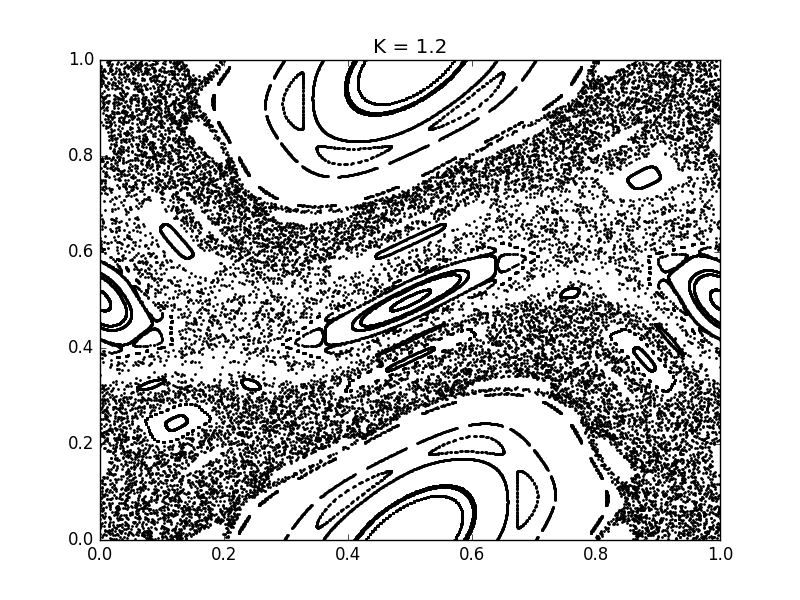
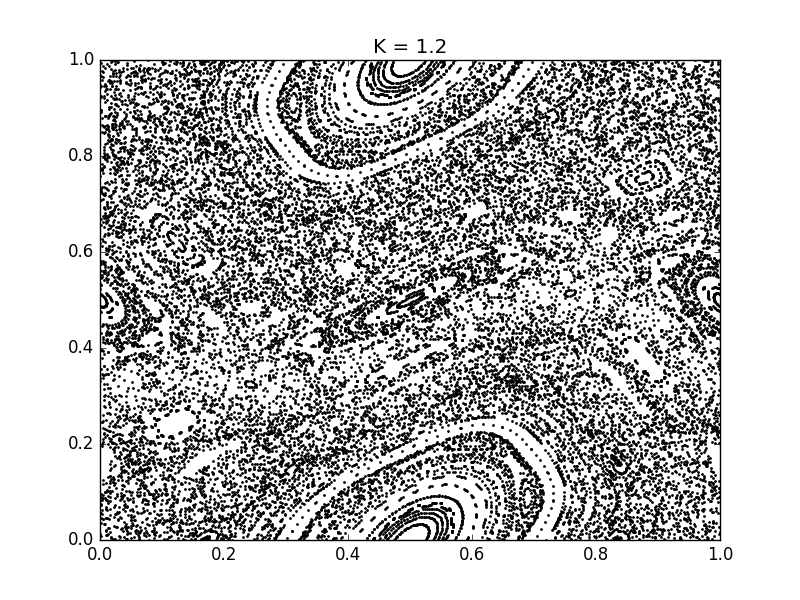
everything working, still need to tweak rounding errors

diff --git a/map_info.py b/map_info.py
@@ -16,10 +16,11 @@ import numpy as np
 #======================================================================================#
 
 # K = a constant which alters the dynamics of the system
-e = 0.1
+e = 0.01
 K = 1.2
 Scale = 1
 
+# Assuming points in R^2
 def std_map_next(pt):
     y = (pt[1] + K/(2*np.pi)*np.sin(2*np.pi*pt[0])) % Scale
     x = (pt[0] + y) % Scale
@@ -27,7 +28,6 @@ def std_map_next(pt):
 
 def std_map_jacobian(pt):
     return (np.matrix([[1, K*np.cos(pt[1])], [1, 1 + K*np.cos(pt[1])]]))
-
 
 #=======================================================================================#
 #                               The Two-One-One Map                                     #

diff --git a/lib_with_map.py b/lib_with_map.py
@@ -8,7 +8,7 @@ import map_info as m
 
 # N = the number of iterations used in most of the functions
 K = 1.2
-N = 30
+N = 12
 Scale = 1
 
 
@@ -33,7 +33,7 @@ class Map:
 def get_orbit(Map, pt): 
     orbit = []
     tmp = (pt[0], pt[1])
-    for n in range(N):
+    for n in range(100):
         orbit.append(tmp)
         tmp = Map.next(tmp)
     return orbit
